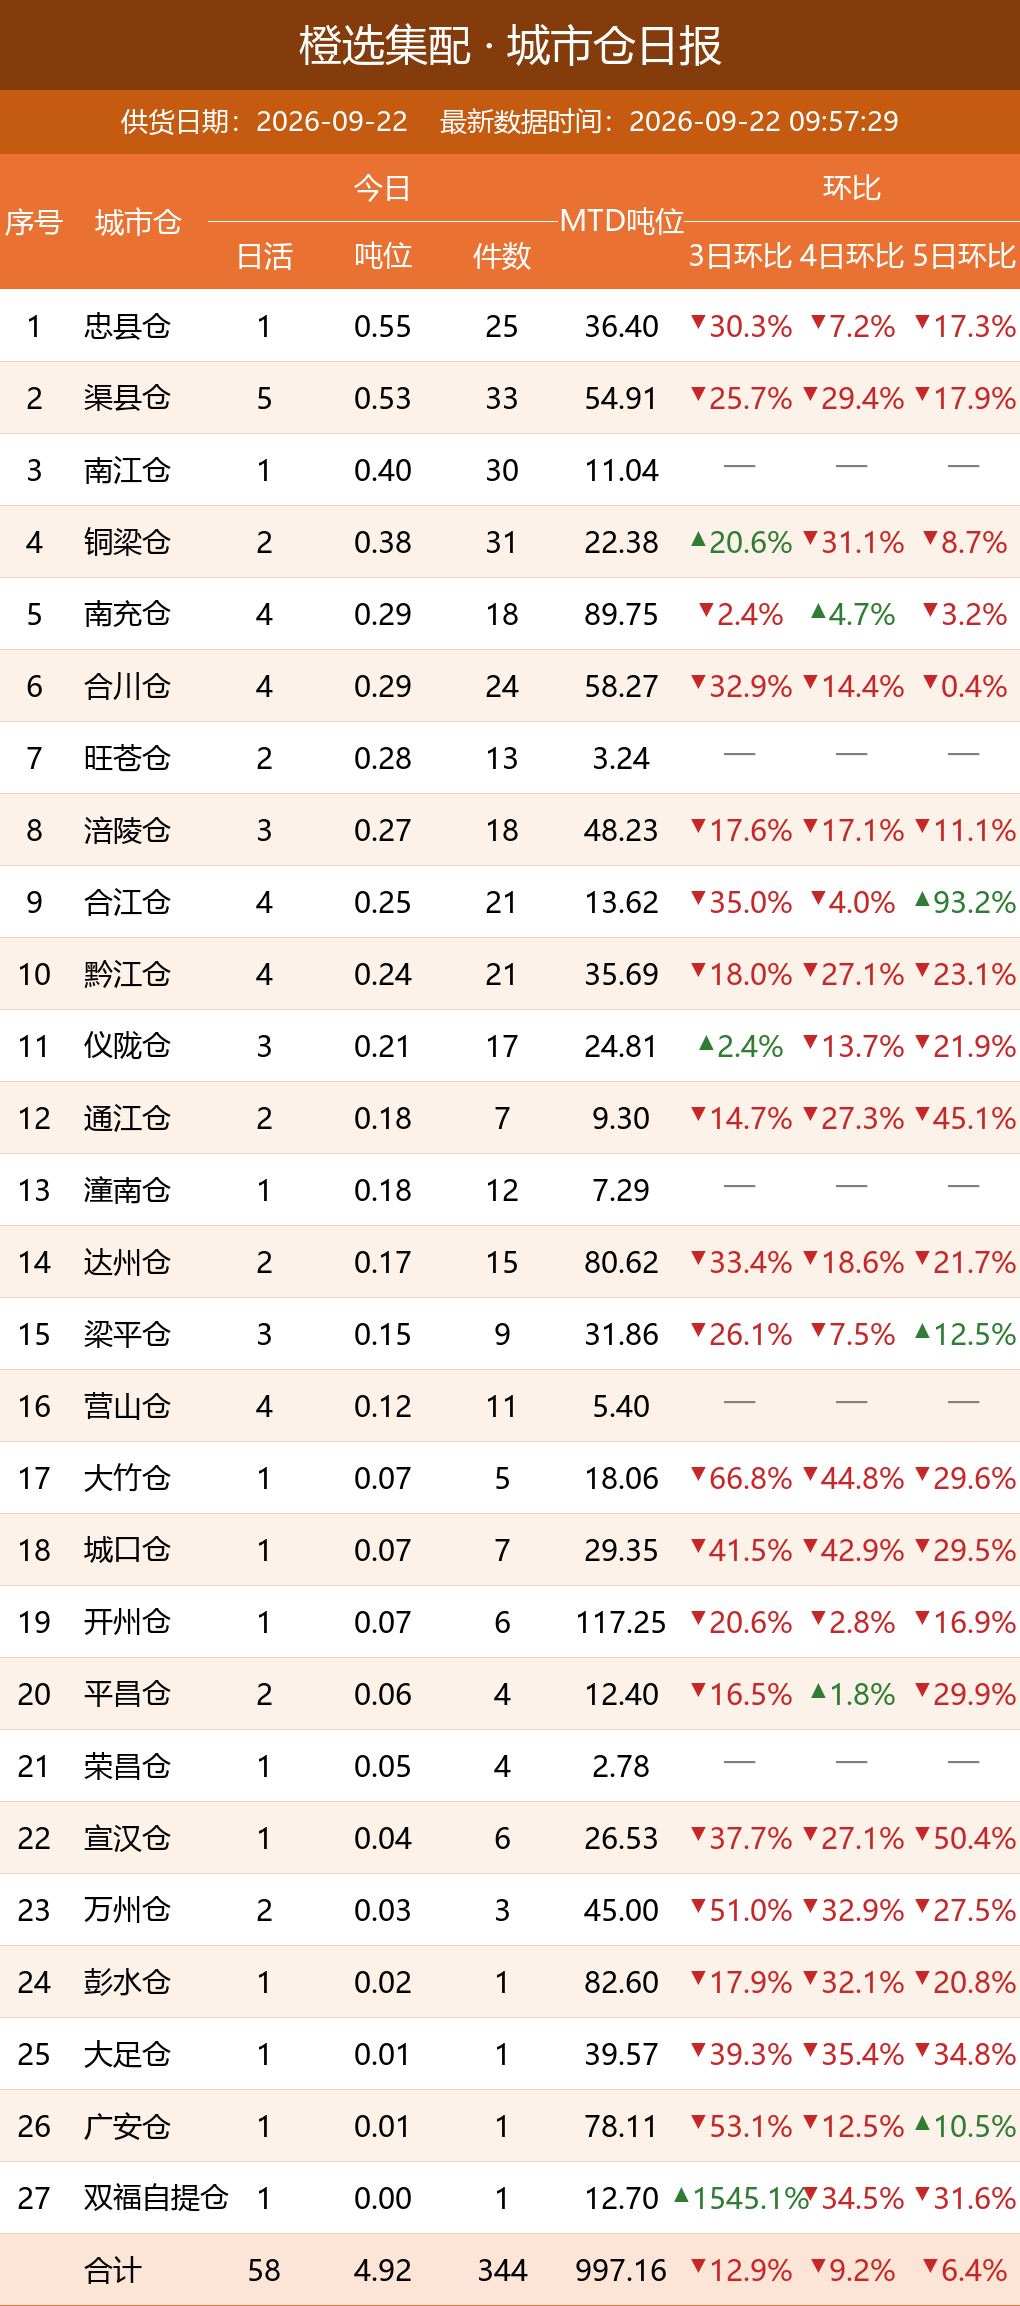
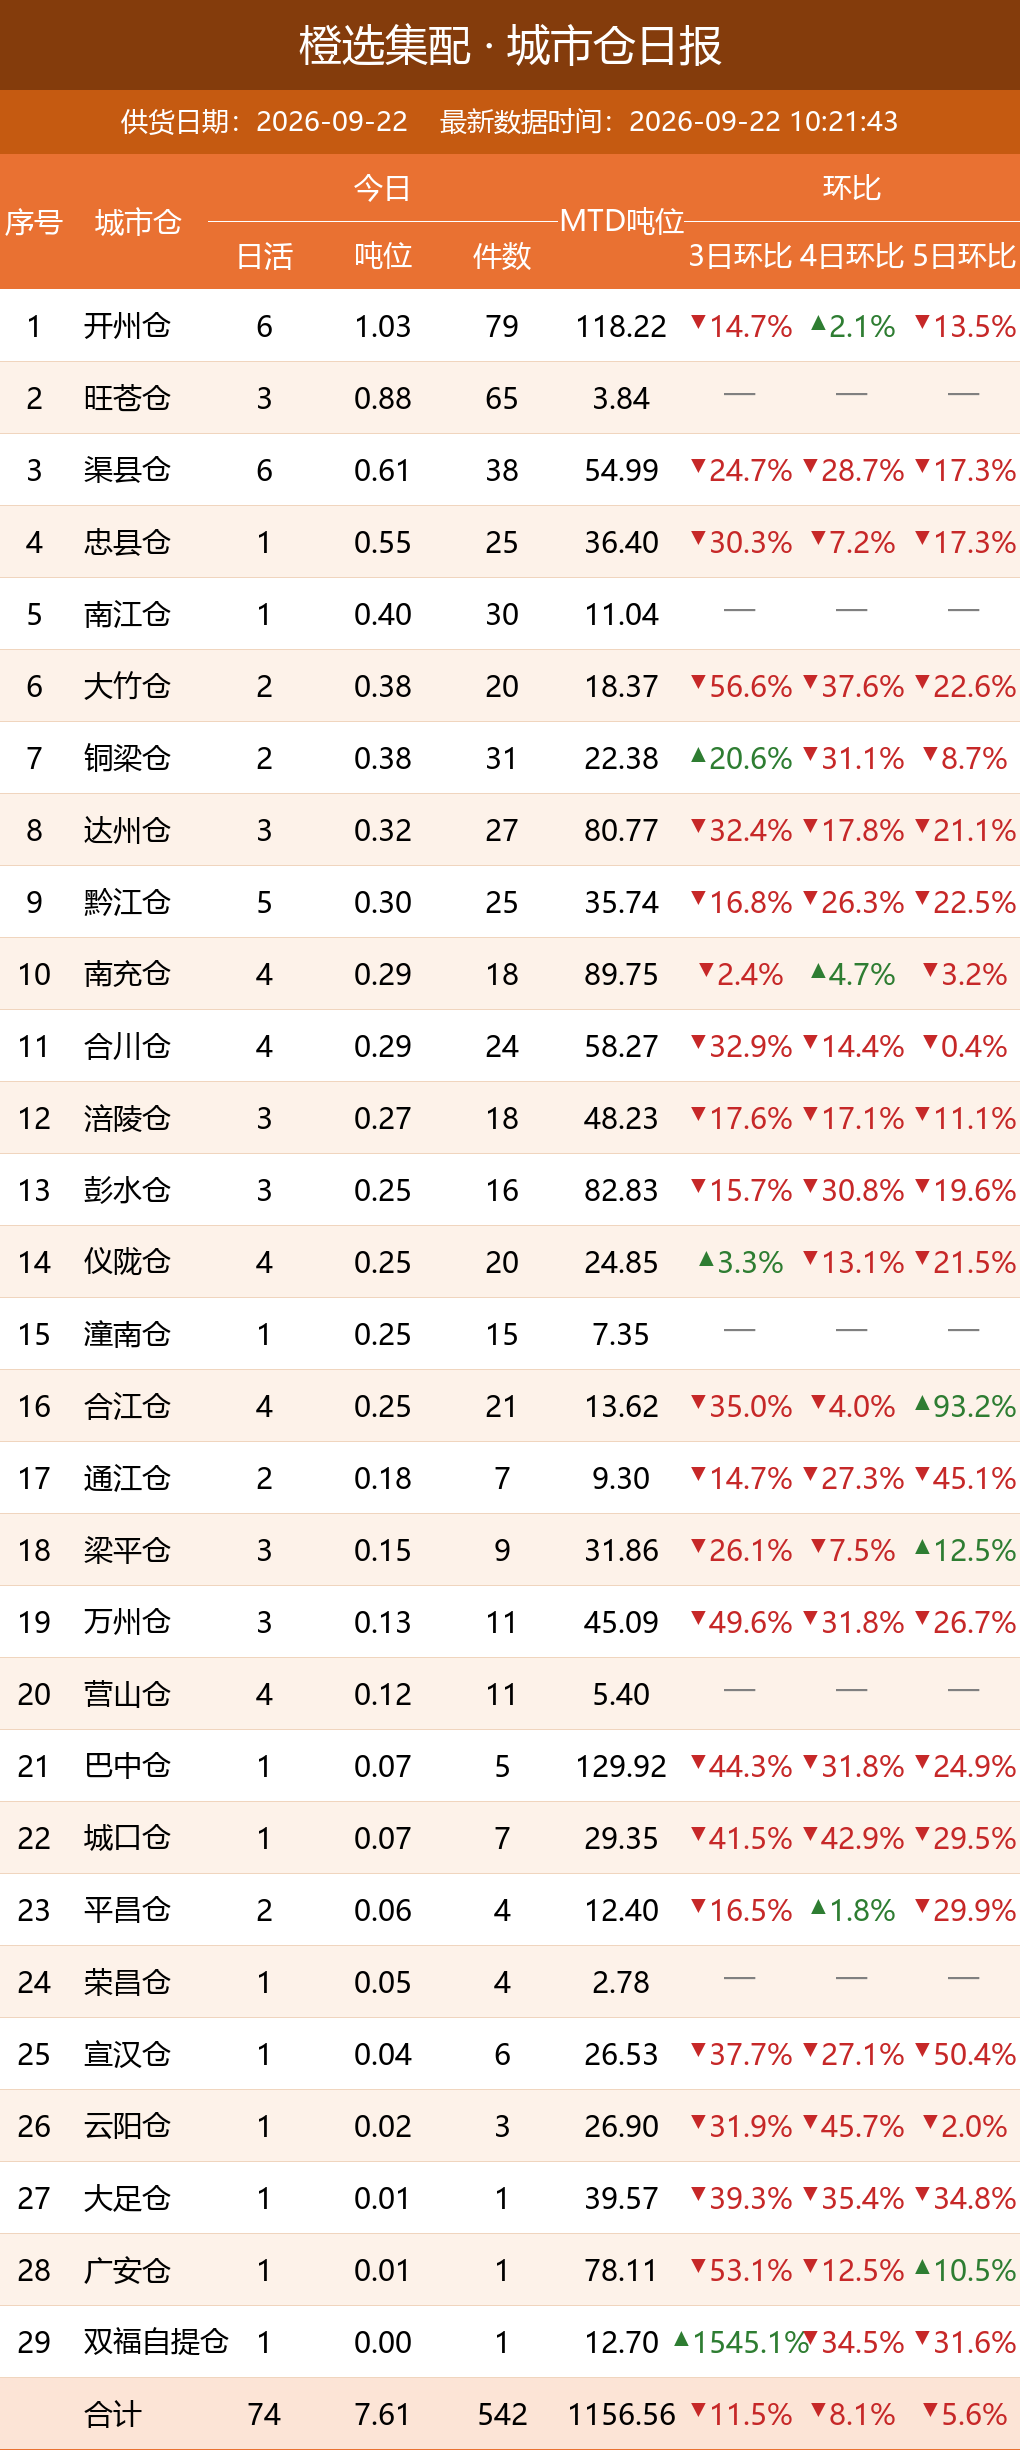
自动更新日报图片

Changed region(s): [[0.0, 0.0, 1.0, 0.9991], [0.4559, 0.9679, 0.5167, 0.9991], [0.2431, 0.9679, 0.2735, 0.9991]]

diff --git a/daily_report/index.html b/daily_report/index.html
@@ -11,7 +11,7 @@ img { max-width: 100%; border: 1px solid #e5e5e5; margin-bottom: 24px; display: 
 </style>
 </head>
 <body>
-<h1>橙选集配日报图片（20260922_095859）</h1>
+<h1>橙选集配日报图片（20260922_102321）</h1>
 <img src="bd_latest.png" alt="BD 日报">
 <img src="wh_latest.png" alt="城市仓日报">
 <img src="zs_latest.png" alt="招商日报">
